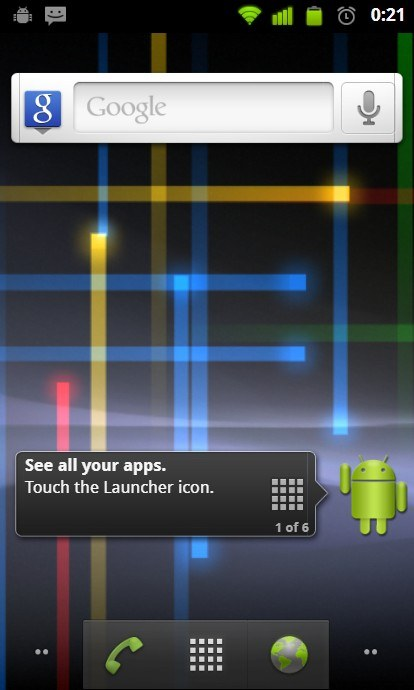
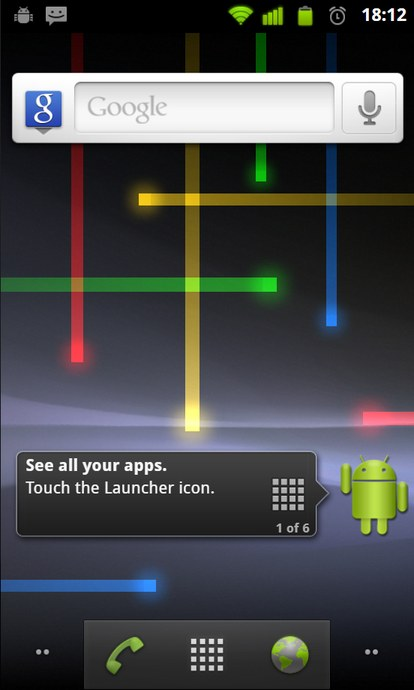
Android 2.3.6 landing shot retaken: the Nexus live wallpaper's pulses placed for it (crespo's scaled pulses), two of each colour in the free areas above and below the first-run cling

diff --git a/versions/catalog.js b/versions/catalog.js
@@ -20,7 +20,7 @@ window.ANDROID_VERSIONS = [
     description: 'Touch keys under the glass, the SlidingTab lock screen, option panels behind the Menu key, green status icons and the zombie Gingerbread easter egg.',
     url: 'versions/2.3.6/',
     status: 'available',
-    art: {shot: 'landing-home.jpg?v=8', phone: 'nexuss'}
+    art: {shot: 'landing-home.jpg?v=9', phone: 'nexuss'}
   },
   {
     id: '4.0.4',

diff --git a/index.html b/index.html
@@ -21,7 +21,7 @@
   <link rel="icon" type="image/svg+xml" href="favicon.svg">
   <link rel="stylesheet" href="styles.css?v=21">
   <script defer src="i18n.js?v=102"></script>
-  <script defer src="versions/catalog.js?v=34"></script>
+  <script defer src="versions/catalog.js?v=35"></script>
   <script defer src="app.js?v=12"></script>
 </head>
 <body>
